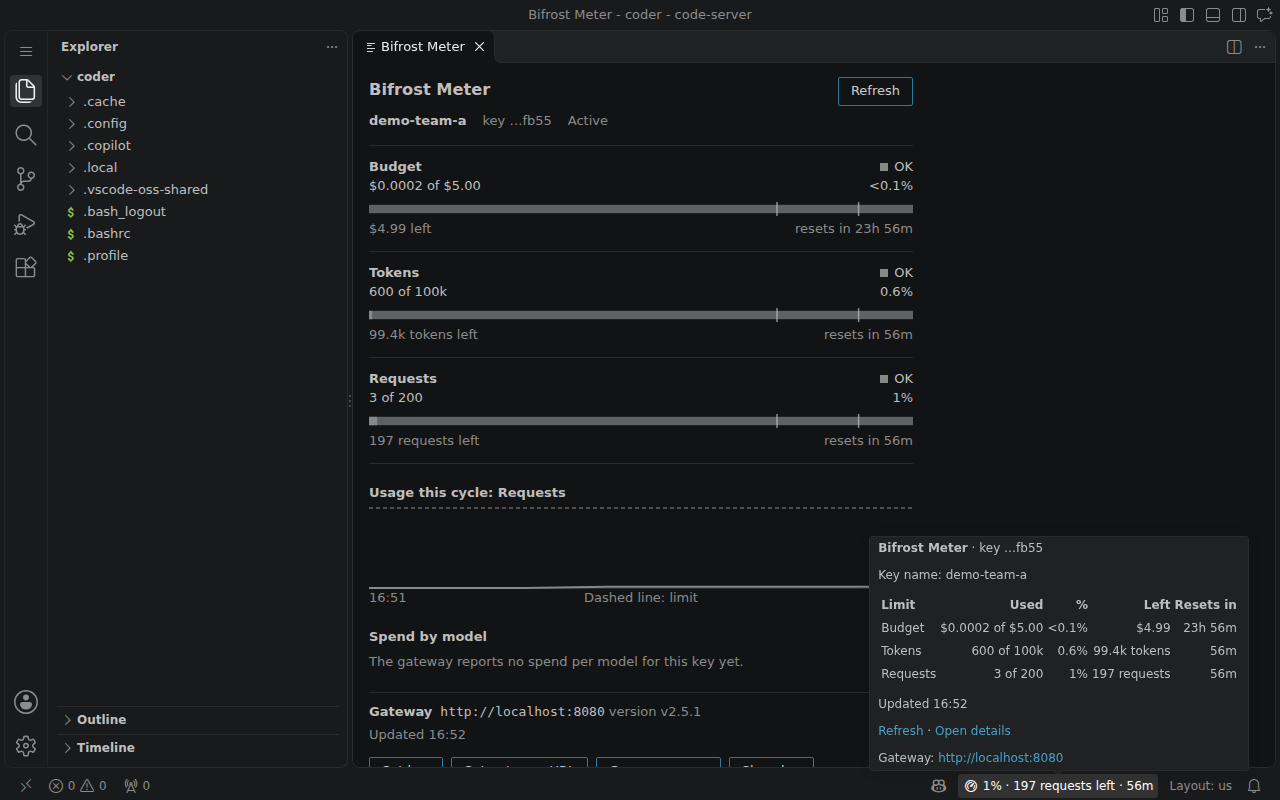
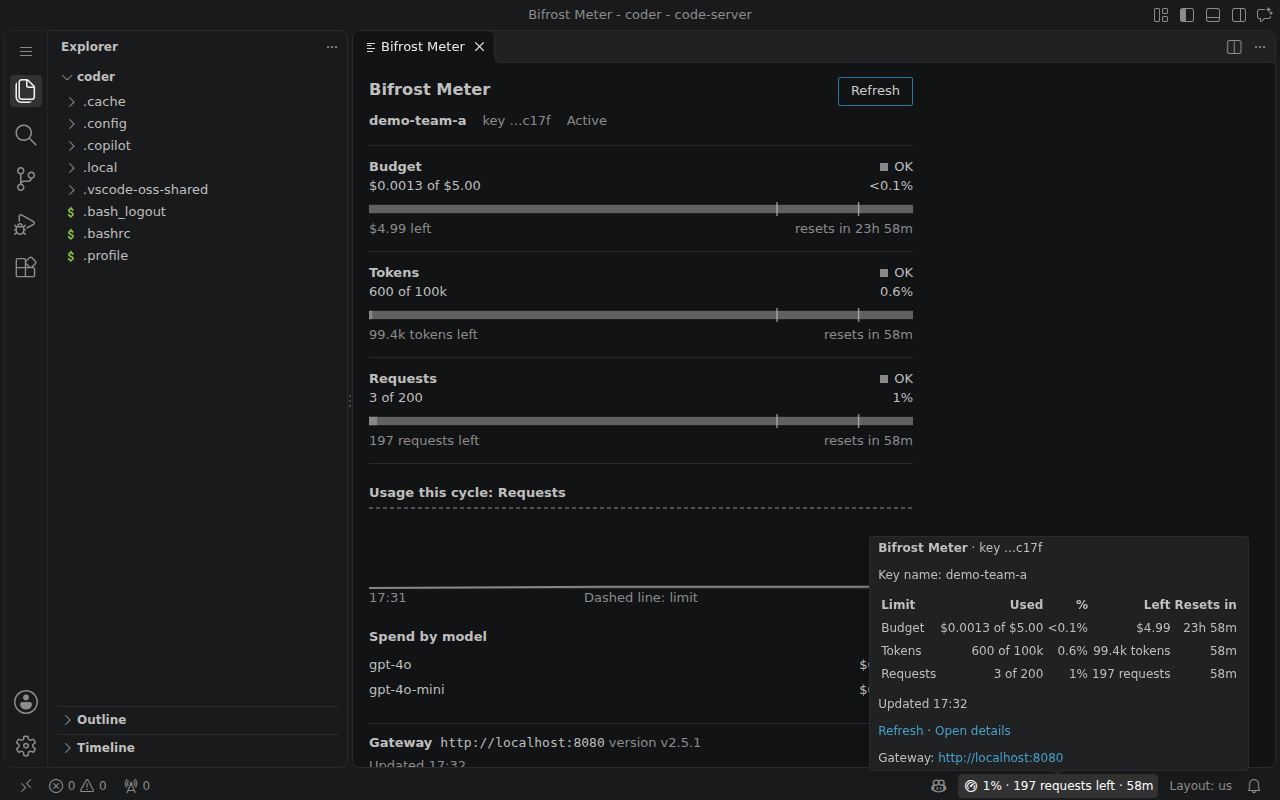
Record the version floor, spend per model and override rules (ADR 0008)

Changed region(s): [[0.2812, 0.8125, 0.5938, 0.9688], [0.4062, 0.125, 0.4688, 0.1562], [0.7812, 0.6562, 0.8125, 0.6875]]

diff --git a/docs/API-CONTRACT.md b/docs/API-CONTRACT.md
@@ -40,7 +40,13 @@ Top level, exactly as returned: `virtual_key_name`, `is_active`, `budgets`, `rat
 `model_configs`.
 
 - `budgets[]`: `max_limit` (USD), `current_usage` (USD), `reset_duration` (for example `1d`, `1h`), `last_reset` (ISO time),
-  `per_model_usage[]`.
+  `override_amount`, `override_mode`, `override_cycles_remaining` (only after an admin override), `per_model_usage[]`.
+- `budgets[].per_model_usage[]`: `model`, `provider`, `total_cost` (USD since the last reset), `total_requests`,
+  `total_tokens`. The meter shows `total_cost` per model, highest first.
+- **Enforced budget limit.** After an admin override the gateway enforces `max_limit + override_amount` when
+  `override_mode` is `forever`, or `cycles` with `override_cycles_remaining` above 0. The quota response has no field
+  for that sum, so the meter computes it. Measured: an override of 5 on a budget of 5 answered `effective_max_limit: 10`
+  on the management call, while the quota response kept `max_limit: 5` with `override_amount: 5`.
 - `rate_limit` (object or `null`): `token_max_limit`, `token_current_usage`, `token_reset_duration`, `token_last_reset`,
   `request_max_limit`, `request_current_usage`, `request_reset_duration`, `request_last_reset`. A limit that is not set is
   absent or `null`.
@@ -56,13 +62,17 @@ Five `POST /v1/chat/completions` calls through key `demo-team-a` (model `openai/
 | `budgets[0].current_usage` (USD) | 0 | 0.00033 |
 | `rate_limit.token_current_usage` | 0 | 1000 |
 | `rate_limit.request_current_usage` | 0 | 5 |
-| `budgets[0].per_model_usage` entries | 0 | 0 |
+| `budgets[0].per_model_usage` entries | 0 | 0 (read too early; see below) |
 
 Cost is computed by the gateway from its own pricing catalog and the token counts; no real provider is called.
 
 Counters are written asynchronously. In the contract runs they became visible 2 to 6 seconds after the last request, so a
 reading taken right after a request can still show the old value. The extension polls on an interval, which hides this
 lag; the contract test waits up to 30 seconds for the counters to move.
+
+`per_model_usage` is filled later than the counters. Re-recorded 15 seconds after six calls rotating over
+`openai/gpt-4o-mini` and `openai/gpt-4o`: two entries, three requests and 600 tokens each, with `total_cost` 0.0033 USD
+for `gpt-4o` and 0.000198 USD for `gpt-4o-mini` (`test/fixtures/quota-200-after-traffic.json`).
 
 ## When fields are missing
 

diff --git a/docs/decisions/0008-real-response-fixes.md b/docs/decisions/0008-real-response-fixes.md
@@ -1,0 +1,33 @@
+# 0008. Version floor, spend per model and budget overrides
+
+- Status: accepted
+- Date: 2026-11-14
+- Changes: the `engines.vscode` line of ADR 0004
+
+## Context
+
+A review against the pinned gateway (v2.5.1) found three places where the extension and the real system disagreed:
+
+- `engines.vscode` was `^1.145.0`, the version inside the code-server used for end-to-end tests. Any editor older than
+  that refuses to install the `.vsix`, although the extension only uses older API.
+- The spend per model list read `current_usage` on each `per_model_usage` entry. The gateway sends `total_cost`, so the
+  list stayed empty on a real gateway. The earlier fixture had no entries because it was recorded 1.5 s after traffic,
+  before the gateway wrote them.
+- After an admin override on a budget, the gateway enforces `max_limit + override_amount`, but the quota response only
+  carries the parts. Reading `max_limit` alone made the meter report "used up" while requests still passed.
+
+## Decision
+
+- **`engines.vscode` is `^1.90.0`** and `@types/vscode` is pinned to 1.90.0, so the compiler rejects newer API. The
+  end-to-end test still runs on code-server 4.145.2.
+- **Spend per model reads `total_cost`**, falling back to the older names. The demo provider lists two models and the
+  traffic rotates over them, so the list has more than one row. Fixtures are recorded at least 15 s after traffic.
+- **The budget limit is the enforced one**: `max_limit + override_amount` when `override_mode` is `forever`, or `cycles`
+  with `override_cycles_remaining` above 0; otherwise `max_limit`. A contract test sets an override through the
+  management API and checks the limit the meter shows.
+
+## Consequences
+
+The fixtures `quota-200-after-traffic` and `quota-200-override` come from the pinned gateway. Tests derive expected
+numbers from the fixtures instead of copying them, so re-recording does not break them. If a future gateway adds an
+effective limit field to the quota response, the meter should read it first.

diff --git a/docs/TEST-RESULTS.md b/docs/TEST-RESULTS.md
@@ -10,8 +10,8 @@ free `127.0.0.1` port, then removes the stack (`docker compose down -v`). Withou
 
 - Date: 2026-11-14
 - Gateway: `maximhq/bifrost@sha256:5ec9873acaf1687556b6e4dd854b92b539d9debf87a5a683b66338648b84d3c8` (`v2.5.1`)
-- Result: **6 passed, 0 failed**; 59 s in total, of which about 41 s is starting and seeding the gateway
-- Counters became visible 4.5 s after the last mock request in this run
+- Result: **7 passed, 0 failed**; 71 s in total, of which about 41 s is starting and seeding the gateway
+- Counters and both per-model rows became visible 9.5 s after the last mock request in this run
 
 | Test | Result |
 |---|---|
@@ -20,7 +20,8 @@ free `127.0.0.1` port, then removes the stack (`docker compose down -v`). Withou
 | 401 without a key header | passed |
 | 401 for an unknown key | passed |
 | 403 "expired" for a key past its expiry | passed |
-| Budget, token and request counters move after 3 mock requests | passed |
+| Budget, token and request counters move after 3 mock requests; spend per model shows a positive amount for each model used | passed |
+| After an admin override (3 on a budget of 2) the meter's budget limit is the enforced 5, while `max_limit` stays 2 | passed |
 
 ## End to end (`npm run test:e2e`)
 
@@ -33,7 +34,8 @@ extension's own code. The stack is removed afterwards (`docker compose down -v`)
 - Date: 2026-11-14
 - Editor: `codercom/code-server@sha256:09565f9e07f5624554e295e8bab0e2fec4a7c533eb3cff459ed6596a4d3d7c1c` (`4.145.2`)
 - Gateway: the same pinned image as the contract suite
-- Result: **9 passed, 0 failed**; 5.4 min in total, of which 49 s is starting the stack (on a busy shared host)
+- Result: **9 passed, 0 failed**; 4.2 min in total, of which 44 s is starting the stack (on a busy shared host). The
+  extension declares `engines.vscode` `^1.90.0` and is compiled against the 1.90 API; this run installs it in code-server 4.145.2
 
 | Test | Result |
 |---|---|

diff --git a/docs/BUILD-LOG.md b/docs/BUILD-LOG.md
@@ -9,3 +9,4 @@ One line per step.
 - 2026-11-14: Details panel (webview): every limit with a threshold bar, left, reset and forecast; usage chart; spend per model; key status, gateway URL and version; strict policy with a nonce, five allowed commands, focus kept across refreshes (ADR 0005).
 - 2026-11-14: Demo traffic profile (mock requests through a demo key), seed reuses keys on re-run, demo README; contract tests against the pinned gateway with the extension's own client, 6 passed (docs/TEST-RESULTS.md, ADR 0006).
 - 2026-11-14: End-to-end tests in code-server with the packaged .vsix against the pinned gateway: key, status bar numbers from the quota response, panel, traffic, warning, 401, 403, offline; 9 passed; dark, light and high contrast screenshots (docs/TEST-RESULTS.md, ADR 0007).
+- 2026-11-14: Version floor lowered to VS Code 1.90; spend per model reads the gateway's total_cost; budget limit includes an active admin override; fixtures re-recorded on the pinned gateway; contract 7 passed, end to end 9 passed (ADR 0008).

diff --git a/docs/decisions/0004-extension-rules.md b/docs/decisions/0004-extension-rules.md
@@ -10,7 +10,7 @@ notifications. Some behaviours were not fixed by the specification.
 
 ## Decision
 
-- **`engines.vscode` is `^1.145.0`**, the VS Code version inside code-server 4.145.2, the editor the end-to-end test runs in.
+- **`engines.vscode` was `^1.145.0`** (changed to `^1.90.0` in ADR 0008), the VS Code version inside code-server 4.145.2, the editor the end-to-end test runs in.
   The extension uses no API newer than that. If the end-to-end test pins a different code-server, the floor follows it.
 - **`bifrostMeter.baseUrl` and `bifrostMeter.allowInsecureHttp` are application-scoped** (user settings only). A workspace
   `.vscode/settings.json` from a cloned repository could otherwise point the stored key at another host, or allow it to
